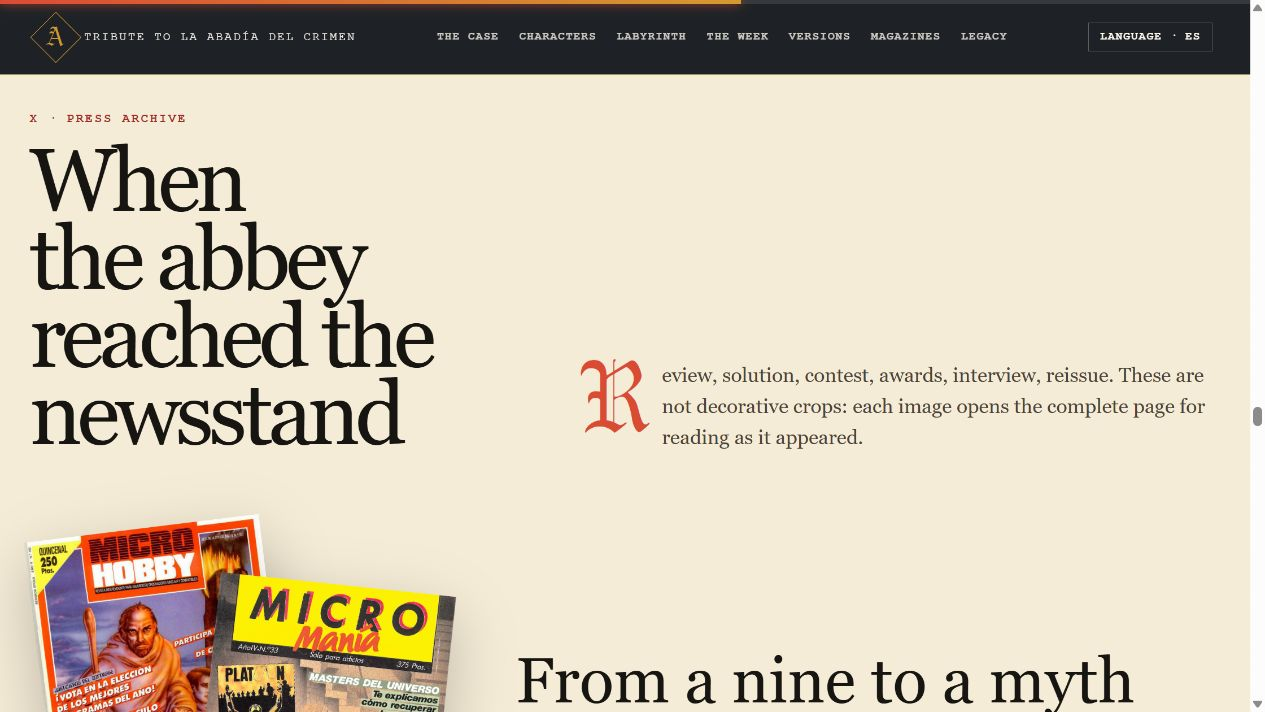
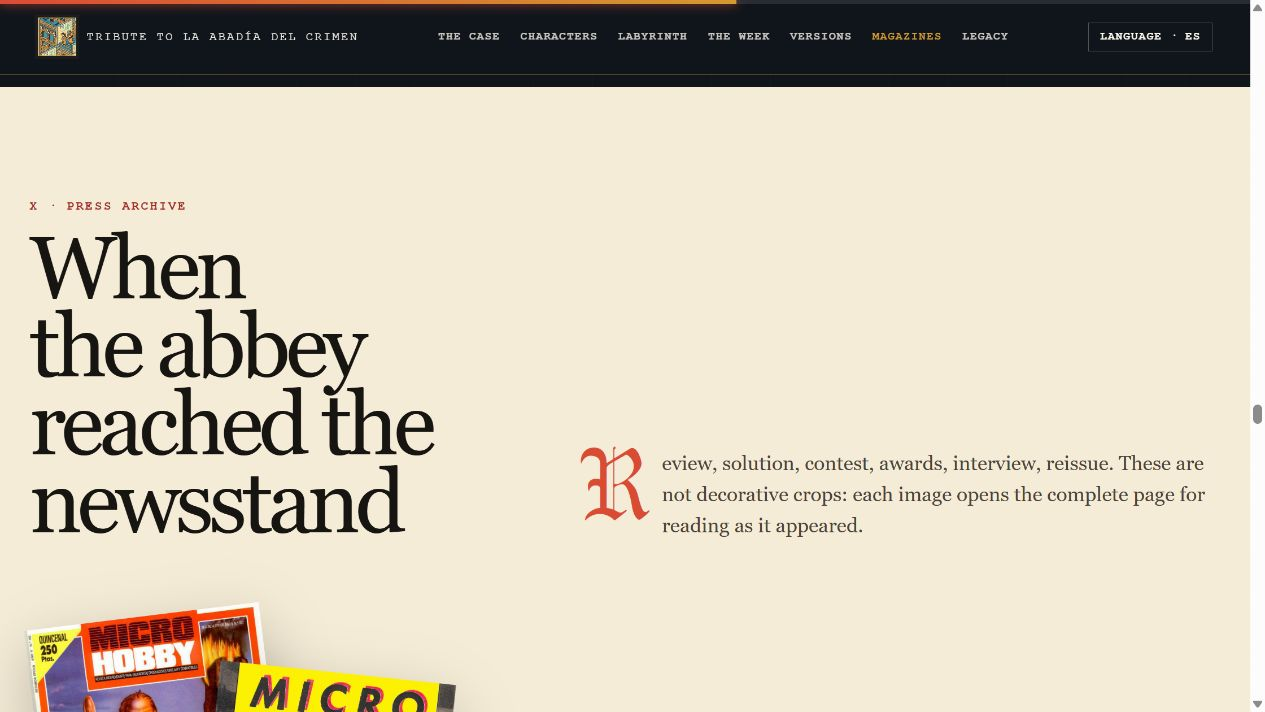
Finalize version 1 presentation and credits

diff --git a/en/index.html b/en/index.html
@@ -5,7 +5,7 @@
   <meta name="viewport" content="width=device-width, initial-scale=1">
   <meta name="description" content="An interactive visual archive of La Abadía del Crimen: history, characters, the complete week, maps, ports, magazines, adverts, sound and legacy.">
   <title>Tribute to La Abadía del Crimen</title>
-  <link rel="stylesheet" href="../styles.css?v=20260830-board45">
+  <link rel="stylesheet" href="../styles.css?v=20260830-board46">
 </head>
 <body>
   <a class="skip-link" href="#content">Skip to the story</a>
@@ -30,7 +30,7 @@
 
   <header class="hero" id="start" style="--hero-image:url('assets/game/loading-color.webp')">
     <div class="hero-inner">
-      <p class="eyebrow">Interactive tribute · 1987—∞</p>
+      <p class="eyebrow">Interactive tribute</p>
       <h1>The Abbey <em>of Crime</em></h1>
       <p class="hero-deck">Seven days. Eight suspects. A library that must not exist. We enter Paco Menéndez and Juan Delcán’s classic as one enters the abbey itself: following the bells, disobeying the Abbot, and peering behind every wall.</p>
       <ul class="hero-meta">
@@ -166,7 +166,7 @@
         <figure class="map-document map-document--spread"><div class="magazine-map-spread"><button type="button" data-lightbox="../assets/magazines/mm33-guide-2.webp" data-alt="First page of the map published in Micromanía 33" data-caption="Micromanía issue 33: first half of the illustrated La Abadía del Crimen map."><img src="../assets/magazines/mm33-guide-2.webp" alt="First page of the Micromanía 33 map" loading="lazy"></button><button type="button" data-lightbox="../assets/magazines/mm33-guide-3.webp" data-alt="Second page of the map published in Micromanía 33" data-caption="Micromanía issue 33: second half of the illustrated La Abadía del Crimen map."><img src="../assets/magazines/mm33-guide-3.webp" alt="Second page of the Micromanía 33 map" loading="lazy"></button></div><figcaption><strong>Micromanía cartography</strong><span>The complete two-page spread, published two pages after the guide begins.</span></figcaption></figure>
       </div>
       <div class="stitched-atlas reveal">
-        <div class="stitched-heading"><span class="source-tag">Screen cartography</span><h3>The abbey, stitched room by room</h3><p>These stitched images belong to <cite>La Abadía del Crimen: guide to completing the adventure</cite>, a nine-page illustrated walkthrough. Its montages assemble the real CPC screens; numbering identifies each room and turns isometric perspective into a walkable plan for finishing the game.</p></div>
+        <div class="stitched-heading"><span class="source-tag">Screen cartography</span><h3>The abbey, stitched room by room</h3><p>These stitched images form part of <cite>La Abadía del Crimen: guide to completing the adventure</cite>, the nine-page illustrated walkthrough shared by <a href="https://x.com/EnriqueBCN/status/1550762568150618113">@EnriqueBCN on X</a>. Its montages assemble the real CPC screens; numbering identifies each room and turns isometric perspective into a walkable plan for finishing the game.</p></div>
         <div class="stitched-grid">
           <figure><button type="button" data-lightbox="../assets/guide/guide-p02.jpg" data-alt="Main floor reconstructed from 61 game screens" data-caption="Guide to completing the adventure: main floor formed from 61 CPC screens, with entrances, cells, and passages marked."><img src="../assets/guide/guide-p02.jpg" alt="Main-floor map stitched from CPC screens" loading="lazy"></button><figcaption><strong>The complete main floor</strong><span>Sixty-one rooms, from the entrance to William and Adso's cell.</span></figcaption></figure>
           <figure><button type="button" data-lightbox="../assets/guide/guide-p06.jpg" data-alt="Scriptorium reconstructed from game screens" data-caption="Guide to completing the adventure: the sixteen screens of the scriptorium, including the library entrances."><img src="../assets/guide/guide-p06.jpg" alt="Scriptorium map stitched from CPC screens" loading="lazy"></button><figcaption><strong>The scriptorium</strong><span>Desks, stairs, and forbidden entrances assembled in one image.</span></figcaption></figure>
@@ -322,16 +322,16 @@
     <section class="chapter dark" id="sources">
       <div class="chapter-header reveal"><div><span class="chapter-number">XV · Credits and sources</span><h2>Where every clue came from</h2></div><p class="chapter-intro">This tribute distinguishes contemporary documents, technical reconstruction, testimony, and retrospective writing. Interpretations are ours; visual materials retain their provenance.</p></div>
       <div class="sources-grid reveal">
-        <section class="source-group"><h3>Preserved magazines and guides</h3><ul><li>MicroHobby 162, 175, 188, and 215.</li><li>Micromanía first series 31 and 33; second series 3.</li><li>Input MSX / Input Micros 29 and Amstrad Sinclair Ocio 4.</li><li>Selected pages from Retro Gamer España 41 and Retro Gamer UK 28, 48, 73, and 131.</li><li><a href="../assets/guide/guide-p01.jpg" data-lightbox="../assets/guide/guide-p01.jpg" data-lightbox-pages="../assets/guide/guide-p01.jpg|../assets/guide/guide-p02.jpg|../assets/guide/guide-p03.jpg|../assets/guide/guide-p04.jpg|../assets/guide/guide-p05.jpg|../assets/guide/guide-p06.jpg|../assets/guide/guide-p07.jpg|../assets/guide/guide-p08.jpg|../assets/guide/guide-p09.jpg" data-alt="Illustrated guide to completing La Abadía del Crimen" data-caption="La Abadía del Crimen: guide to completing the adventure, preserved as nine illustrated pages."><cite>La Abadía del Crimen: guide to completing the adventure</cite></a>, all nine illustrated pages.</li></ul></section>
+        <section class="source-group"><h3>Preserved magazines and guides</h3><ul><li>MicroHobby 162, 175, 188, and 215.</li><li>Micromanía first series 31 and 33; second series 3.</li><li>Input MSX / Input Micros 29 and Amstrad Sinclair Ocio 4.</li><li>Selected pages from Retro Gamer España 41 and Retro Gamer UK 28, 48, 73, and 131.</li><li><a href="https://x.com/EnriqueBCN/status/1550762568150618113"><cite>La Abadía del Crimen: guide to completing the adventure</cite>, shared by @EnriqueBCN on X</a>. <a href="../assets/guide/guide-p01.jpg" data-lightbox="../assets/guide/guide-p01.jpg" data-lightbox-pages="../assets/guide/guide-p01.jpg|../assets/guide/guide-p02.jpg|../assets/guide/guide-p03.jpg|../assets/guide/guide-p04.jpg|../assets/guide/guide-p05.jpg|../assets/guide/guide-p06.jpg|../assets/guide/guide-p07.jpg|../assets/guide/guide-p08.jpg|../assets/guide/guide-p09.jpg" data-alt="Illustrated guide to completing La Abadía del Crimen" data-caption="La Abadía del Crimen: guide to completing the adventure, shared by @EnriqueBCN and preserved as nine illustrated pages.">View all nine preserved pages.</a></li></ul></section>
         <section class="source-group"><h3>Project archaeology</h3><ul><li>Local DOS disk images and executables.</li><li>Disassembly, loading, object, sound, and digital-sample notes.</li><li>VIGASOCO and Abbey: documented equivalent implementations after reverse engineering.</li><li>Source for dialogue, characters, clock, objects, camera, and scoring.</li></ul></section>
         <section class="source-group"><h3>Online archives</h3><ul><li><a href="https://computeremuzone.com/ficha/166/la-abadia-del-crimen">Computer Emuzone</a>: profile, captures, maps, adverts, credits, development, and its CPC, Spectrum, MSX, and PC DOS multiplatform archive.</li><li><strong>System records:</strong> <a href="https://www.cpc-power.com/index.php?page=detail&amp;num=222">CPC-Power</a>, <a href="https://worldofspectrum.org/archive/software/games/la-abadia-del-crimen-opera-soft-sa">World of Spectrum</a>, <a href="https://www.msxgamesworld.com/software.php?id=146">MSX Games World</a>, and <a href="https://www.mobygames.com/game/14113/la-abadia-del-crimen/">MobyGames</a>.</li><li><a href="https://pixelmaniacos.com/la-abadia-del-crimen-el-misterio-de-los-frailes/">Pixelmaniacos</a>: PC capture of mass in the church.</li><li><a href="https://retroinvaders.com/index.php/es/493/bocetos-de-desarrollo-de-la-abadia-del-crimen">Development sketches</a>: Juan Delcán’s squared-paper designs.</li><li><a href="https://github.com/ibaca/la-abadia-del-crimen">Reconstructed source</a>: equivalent implementation reverse-engineered from the CPC original.</li><li><a href="https://www.elmundodelspectrum.com/la-abadia-del-crimen-1987-opera-soft/">El Mundo del Spectrum</a>: history and Spectrum version.</li><li><a href="https://www.elmundodelspectrum.com/el-contrato-de-la-abadia-del-crimen/">Rights-assignment contract</a>: historical document.</li><li><a href="https://computeremuzone.com/entrevista/11/juan-delcan-grafista-del-que-puede-considerarse-como-el-mejor-juego-espanol-para-8-bits-de-la-historia-una-entrevista-de-zemman-y-mandrake-el-mago">Juan Delcán interview</a>.</li><li><strong>Access and rights:</strong> Computer Emuzone states that the classic-game authors it has been able to contact authorized availability of their games. This tribute hosts no copies; use your own copy or a distribution expressly authorized by its provider.</li></ul></section>
         <section class="source-group"><h3>Legacy</h3><ul><li><a href="https://computeremuzone.com/ficha/106/la-abadia-del-crimen-remake">Antonio Giner’s VGA remake</a>, preserved record and downloads.</li><li><a href="https://store.steampowered.com/app/474030/The_Abbey_of_Crime_Extensum/">Extensum on Steam</a> and official images.</li><li><a href="https://www.devuego.es/codice/flibro/obsequium-un-relato-cultural-tecnologico-y-emocional-de-la-abadia-del-crimen"><cite>Obsequium</cite></a> bibliographical record.</li><li><a href="https://www.market.correos.es/product/sello-la-abadia-del-crimen">Official Correos stamp</a>.</li><li><a href="https://www.henneomagazines.com/products/5413">Retro Gamer España 40</a> and <a href="https://www.henneomagazines.com/products/5430">Retro Gamer España 41</a>.</li><li>Academic study of its many versions.</li></ul></section>
       </div>
-      <p class="source-note reveal">Visual credits: pages and cartography from the magazines and guides preserved in the Revistas folder; screens, general map, and advertising collected by Computer Emuzone and reused with link and attribution under its content policy; PC church capture from Pixelmaniacos; commemorative miniature sheet from the official Correos listing; Extensum captures from its official Steam page. The loading screen and sounds come from preservation files and ports in this project; portraits and objects were extracted without redrawing from <code>GraficosVGA</code> in the local VIGASOCO reconstruction. The chapter initials and the emblem's A use GregorianFLF, the typeface supplied with this project; the clock labels use the game's 8-bit dialogue typeface. The work, characters, graphics, and marks belong to their respective owners. Non-commercial site for documentation and tribute.</p>
+      <p class="source-note reveal">Visual credits: pages and cartography from the magazines and guides preserved in the Revistas folder; screens, general map, and advertising collected by Computer Emuzone and reused with link and attribution under its content policy; PC church capture from Pixelmaniacos; commemorative miniature sheet from the official Correos listing; Extensum captures from its official Steam page. The loading screen and sounds come from preservation files and ports in this project; portraits and objects were extracted without redrawing from <code>GraficosVGA</code> in the local VIGASOCO reconstruction. The chapter initials use GregorianFLF, the typeface supplied with this project; the clock labels use the game's 8-bit dialogue typeface. The work, characters, graphics, and marks belong to their respective owners. Non-commercial site for documentation and tribute.</p>
     </section>
   </main>
 
-  <footer class="site-footer"><div><strong>Finis?</strong><p>The investigation ends; the abbey does not. Return at another hour, open another magazine, or listen to the bells again.</p><p><a href="#start">Back to the beginning</a> · <a href="../es/index.html" lang="es">Edición española</a></p><p class="project-credit">Andrés del Campo Novales <span>with GPT 5.6 Sol</span></p></div><div class="seal" aria-hidden="true">A</div></footer>
+  <footer class="site-footer"><div><strong>Finis?</strong><p>The investigation ends; the abbey does not. Return at another hour, open another magazine, or listen to the bells again.</p><p><a href="#start">Back to the beginning</a> · <a href="../es/index.html" lang="es">Edición española</a></p><p class="project-credit">Andrés del Campo Novales <span>with GPT 5.6 Sol</span></p></div><div class="footer-labyrinth" aria-hidden="true"><img src="../assets/maps/library-labyrinth-plan.png" alt=""></div></footer>
 
   <div class="lightbox" role="dialog" aria-modal="true" aria-hidden="true" aria-label="Archive viewer"><button class="lightbox-close" type="button">Close ×</button><img src="" alt=""><div class="lightbox-navigation" aria-label="Article pages" hidden><button class="lightbox-previous" type="button" aria-label="Previous page">← Previous</button><span class="lightbox-page-count" aria-live="polite"></span><button class="lightbox-next" type="button" aria-label="Next page">Next →</button></div><p class="lightbox-caption"></p></div>
   <script src="../app.js?v=20260830-board32"></script>

diff --git a/es/index.html b/es/index.html
@@ -5,7 +5,7 @@
   <meta name="viewport" content="width=device-width, initial-scale=1">
   <meta name="description" content="Homenaje interactivo y archivo visual de La Abadía del Crimen: historia, personajes, semana completa, mapas, versiones, revistas, anuncios, sonido y legado.">
   <title>Homenaje a La Abadía del Crimen</title>
-  <link rel="stylesheet" href="../styles.css?v=20260830-board45">
+  <link rel="stylesheet" href="../styles.css?v=20260830-board46">
 </head>
 <body>
   <a class="skip-link" href="#contenido">Saltar al contenido</a>
@@ -30,7 +30,7 @@
 
   <header class="hero" id="inicio" style="--hero-image:url('assets/game/loading-color.webp')">
     <div class="hero-inner">
-      <p class="eyebrow">Homenaje interactivo · 1987—∞</p>
+      <p class="eyebrow">Homenaje interactivo</p>
       <h1>La Abadía <em>del Crimen</em></h1>
       <p class="hero-deck">Siete días. Ocho sospechosos. Una biblioteca que no debería existir. Entramos en el clásico de Paco Menéndez y Juan Delcán como se entra en la propia abadía: siguiendo las campanas, desobedeciendo al Abad y mirando detrás de cada muro.</p>
       <ul class="hero-meta">
@@ -336,7 +336,7 @@
         <div class="stitched-heading">
           <span class="source-tag">Cartografía de pantallas</span>
           <h3>La abadía, cosida habitación por habitación</h3>
-          <p>Estas imágenes cosidas pertenecen a <cite>La Abadía del Crimen: guía para completar la aventura</cite>, una guía ilustrada de nueve páginas. Sus montajes reúnen las pantallas reales de la versión CPC; la numeración identifica cada estancia y convierte la perspectiva isométrica en un plano transitable para terminar el juego.</p>
+          <p>Estas imágenes cosidas forman parte de <cite>La Abadía del Crimen: guía para completar la aventura</cite>, la guía ilustrada de nueve páginas compartida por <a href="https://x.com/EnriqueBCN/status/1550762568150618113">@EnriqueBCN en X</a>. Sus montajes reúnen las pantallas reales de la versión CPC; la numeración identifica cada estancia y convierte la perspectiva isométrica en un plano transitable para terminar el juego.</p>
         </div>
         <div class="stitched-grid">
           <figure><button type="button" data-lightbox="../assets/guide/guide-p02.jpg" data-alt="Planta principal recompuesta con 61 pantallas del juego" data-caption="Guía para completar la aventura: planta principal formada con las 61 pantallas CPC, con accesos, celdas y pasadizos señalados."><img src="../assets/guide/guide-p02.jpg" alt="Mapa de la planta principal cosido con pantallas CPC" loading="lazy"></button><figcaption><strong>La planta principal completa</strong><span>61 habitaciones, desde la entrada hasta la celda de Guillermo y Adso.</span></figcaption></figure>
@@ -610,18 +610,18 @@
         <p class="chapter-intro">El homenaje distingue entre archivos contemporáneos, reconstrucción técnica, testimonios y retrospectivas. Las afirmaciones interpretativas son nuestras; los materiales visuales conservan su procedencia.</p>
       </div>
       <div class="sources-grid reveal">
-        <section class="source-group"><h3>Revistas y guías preservadas</h3><ul><li>MicroHobby 162, 175, 188 y 215.</li><li>Micromanía primera época 31 y 33; segunda época 3.</li><li>Input MSX / Input Micros 29 y Amstrad Sinclair Ocio 4.</li><li>Páginas seleccionadas de Retro Gamer España 41 y Retro Gamer UK 28, 48, 73 y 131.</li><li><a href="../assets/guide/guide-p01.jpg" data-lightbox="../assets/guide/guide-p01.jpg" data-lightbox-pages="../assets/guide/guide-p01.jpg|../assets/guide/guide-p02.jpg|../assets/guide/guide-p03.jpg|../assets/guide/guide-p04.jpg|../assets/guide/guide-p05.jpg|../assets/guide/guide-p06.jpg|../assets/guide/guide-p07.jpg|../assets/guide/guide-p08.jpg|../assets/guide/guide-p09.jpg" data-alt="Guía ilustrada para completar La Abadía del Crimen" data-caption="La Abadía del Crimen: guía para completar la aventura, conservada en nueve páginas ilustradas."><cite>La Abadía del Crimen: guía para completar la aventura</cite></a>, nueve páginas ilustradas completas.</li></ul></section>
+        <section class="source-group"><h3>Revistas y guías preservadas</h3><ul><li>MicroHobby 162, 175, 188 y 215.</li><li>Micromanía primera época 31 y 33; segunda época 3.</li><li>Input MSX / Input Micros 29 y Amstrad Sinclair Ocio 4.</li><li>Páginas seleccionadas de Retro Gamer España 41 y Retro Gamer UK 28, 48, 73 y 131.</li><li><a href="https://x.com/EnriqueBCN/status/1550762568150618113"><cite>La Abadía del Crimen: guía para completar la aventura</cite>, compartida por @EnriqueBCN en X</a>. <a href="../assets/guide/guide-p01.jpg" data-lightbox="../assets/guide/guide-p01.jpg" data-lightbox-pages="../assets/guide/guide-p01.jpg|../assets/guide/guide-p02.jpg|../assets/guide/guide-p03.jpg|../assets/guide/guide-p04.jpg|../assets/guide/guide-p05.jpg|../assets/guide/guide-p06.jpg|../assets/guide/guide-p07.jpg|../assets/guide/guide-p08.jpg|../assets/guide/guide-p09.jpg" data-alt="Guía ilustrada para completar La Abadía del Crimen" data-caption="La Abadía del Crimen: guía para completar la aventura, compartida por @EnriqueBCN y conservada en nueve páginas ilustradas.">Ver las nueve páginas preservadas.</a></li></ul></section>
         <section class="source-group"><h3>Proyecto y arqueología</h3><ul><li>Imágenes de disco y ejecutables DOS del archivo local.</li><li>Notas de desensamblado, carga, objetos, sonido y rutinas digitales.</li><li>VIGASOCO y Abbey: implementación equivalente documentada tras ingeniería inversa.</li><li>Fuentes de frases, personajes, reloj, objetos, cámara y puntuación.</li></ul></section>
         <section class="source-group"><h3>Archivos en línea</h3><ul><li><a href="https://computeremuzone.com/ficha/166/la-abadia-del-crimen">Computer Emuzone</a>: ficha, capturas, mapas, anuncios, créditos, desarrollo y archivo multiplataforma de CPC, Spectrum, MSX y PC DOS.</li><li><strong>Fichas por sistema:</strong> <a href="https://www.cpc-power.com/index.php?page=detail&amp;num=222">CPC-Power</a>, <a href="https://worldofspectrum.org/archive/software/games/la-abadia-del-crimen-opera-soft-sa">World of Spectrum</a>, <a href="https://www.msxgamesworld.com/software.php?id=146">MSX Games World</a> y <a href="https://www.mobygames.com/game/14113/la-abadia-del-crimen/">MobyGames</a>.</li><li><a href="https://pixelmaniacos.com/la-abadia-del-crimen-el-misterio-de-los-frailes/">Pixelmaniacos</a>: captura PC de la misa en la iglesia.</li><li><a href="https://retroinvaders.com/index.php/es/493/bocetos-de-desarrollo-de-la-abadia-del-crimen">Bocetos de desarrollo</a>: diseños cuadriculados de Juan Delcán.</li><li><a href="https://github.com/ibaca/la-abadia-del-crimen">Código reconstruido</a>: implementación equivalente tras ingeniería inversa del CPC.</li><li><a href="https://www.elmundodelspectrum.com/la-abadia-del-crimen-1987-opera-soft/">El Mundo del Spectrum</a>: historia y versión Spectrum.</li><li><a href="https://www.elmundodelspectrum.com/el-contrato-de-la-abadia-del-crimen/">Contrato de cesión</a>: documento histórico.</li><li><a href="https://computeremuzone.com/entrevista/11/juan-delcan-grafista-del-que-puede-considerarse-como-el-mejor-juego-espanol-para-8-bits-de-la-historia-una-entrevista-de-zemman-y-mandrake-el-mago">Entrevista con Juan Delcán</a>.</li><li><strong>Acceso y derechos:</strong> Computer Emuzone declara que los autores clásicos con los que ha podido contactar autorizaron la disponibilidad de sus juegos. El homenaje no aloja copias; utiliza una copia propia o una distribución expresamente autorizada.</li></ul></section>
         <section class="source-group"><h3>Legado</h3><ul><li><a href="https://computeremuzone.com/ficha/106/la-abadia-del-crimen-remake">Remake VGA de Antonio Giner</a>, ficha y descargas preservadas.</li><li><a href="https://store.steampowered.com/app/474030/The_Abbey_of_Crime_Extensum/">Extensum en Steam</a> y sus capturas oficiales.</li><li><a href="https://www.devuego.es/codice/flibro/obsequium-un-relato-cultural-tecnologico-y-emocional-de-la-abadia-del-crimen"><cite>Obsequium</cite></a>, ficha bibliográfica.</li><li><a href="https://www.market.correos.es/product/sello-la-abadia-del-crimen">Sello oficial de Correos</a>.</li><li><a href="https://www.henneomagazines.com/products/5413">Retro Gamer España 40</a> y <a href="https://www.henneomagazines.com/products/5430">Retro Gamer España 41</a>.</li><li>Estudio académico sobre sus versiones.</li></ul></section>
       </div>
-      <p class="source-note reveal">Créditos visuales: páginas y cartografía de las revistas y guías preservadas en la carpeta Revistas; pantallas, mapa general y publicidad recopilados por Computer Emuzone y reutilizados con enlace y atribución conforme a su política; captura PC de la iglesia procedente de Pixelmaniacos; mini pliego conmemorativo procedente de la ficha oficial de Correos; capturas de Extensum procedentes de su página oficial de Steam. Pantalla de carga y sonidos proceden de los archivos y puertos preservados en este proyecto; retratos y objetos fueron extraídos sin redibujado de <code>GraficosVGA</code> en la reconstrucción local VIGASOCO. Las iniciales de capítulo y la A del emblema emplean GregorianFLF, la tipografía proporcionada en este proyecto; las etiquetas del reloj emplean la tipografía de diálogo de 8 bits del juego. La obra, personajes, gráficos y marcas pertenecen a sus respectivos titulares. Sitio no comercial creado con fines de documentación y homenaje.</p>
+      <p class="source-note reveal">Créditos visuales: páginas y cartografía de las revistas y guías preservadas en la carpeta Revistas; pantallas, mapa general y publicidad recopilados por Computer Emuzone y reutilizados con enlace y atribución conforme a su política; captura PC de la iglesia procedente de Pixelmaniacos; mini pliego conmemorativo procedente de la ficha oficial de Correos; capturas de Extensum procedentes de su página oficial de Steam. Pantalla de carga y sonidos proceden de los archivos y puertos preservados en este proyecto; retratos y objetos fueron extraídos sin redibujado de <code>GraficosVGA</code> en la reconstrucción local VIGASOCO. Las iniciales de capítulo emplean GregorianFLF, la tipografía proporcionada en este proyecto; las etiquetas del reloj emplean la tipografía de diálogo de 8 bits del juego. La obra, personajes, gráficos y marcas pertenecen a sus respectivos titulares. Sitio no comercial creado con fines de documentación y homenaje.</p>
     </section>
   </main>
 
   <footer class="site-footer">
     <div><strong>Finis?</strong><p>La investigación termina; la abadía no. Vuelve a una hora distinta, abre otra revista o escucha de nuevo las campanas.</p><p><a href="#inicio">Volver al principio</a> · <a href="../en/index.html" lang="en">English edition</a></p><p class="project-credit">Andrés del Campo Novales <span>with GPT 5.6 Sol</span></p></div>
-    <div class="seal" aria-hidden="true">A</div>
+    <div class="footer-labyrinth" aria-hidden="true"><img src="../assets/maps/library-labyrinth-plan.png" alt=""></div>
   </footer>
 
   <div class="lightbox" role="dialog" aria-modal="true" aria-hidden="true" aria-label="Visor de archivo">

diff --git a/styles.css b/styles.css
@@ -121,21 +121,14 @@ a:hover { color: var(--blue); }
   content: "";
   display: block;
   flex: 0 0 auto;
-  width: 2.2rem;
+  width: 2.35rem;
   aspect-ratio: 1;
-  border: 1px solid var(--gold);
-  transform: rotate(45deg);
+  border: 1px solid rgba(212,154,46,.85);
+  background: #0b1013 url("assets/legacy/correos-stamp-sheet.webp") 22% 27% / 470% auto no-repeat;
+  box-shadow: 0 0 0 3px rgba(212,154,46,.06);
 }
 .nav-mark::after {
-  content: "A";
-  position: absolute;
-  left: .48rem;
-  top: 50%;
-  width: 1.25rem;
-  translate: 0 -50%;
-  color: var(--gold);
-  font: 400 1.55rem/1 "Gregorian FLF", Georgia, serif;
-  text-align: center;
+  content: none;
 }
 .nav-mark span { display: inline-block; }
 .nav-links {
@@ -1230,7 +1223,26 @@ html[lang="en"] .character-panel[data-character="bernard"]::before { background-
 .site-footer a { color: var(--gold); }
 .project-credit { color: var(--white) !important; font: 700 .64rem/1.35 var(--mono) !important; letter-spacing: .08em; text-transform: uppercase; }
 .project-credit span { color: var(--gold); }
-.seal { width: 7rem; aspect-ratio: 1; display: grid; place-items: center; border: 1px solid var(--gold); border-radius: 50%; color: var(--gold); font: 400 3rem/1 var(--display); transform: rotate(-8deg); }
+.footer-labyrinth {
+  width: 7.5rem;
+  aspect-ratio: 1;
+  display: grid;
+  place-items: center;
+  overflow: hidden;
+  border: 1px solid rgba(212,154,46,.82);
+  border-radius: 50%;
+  background: #070a0c;
+  box-shadow: inset 0 0 2rem rgba(212,154,46,.08), 0 0 0 5px rgba(212,154,46,.025);
+  transform: rotate(-4deg);
+}
+.footer-labyrinth img {
+  width: 84%;
+  height: 84%;
+  object-fit: contain;
+  opacity: .78;
+  filter: invert(1) sepia(1) saturate(4.2) hue-rotate(350deg) brightness(.88) contrast(1.12);
+  transform: rotate(4deg);
+}
 
 .lightbox {
   position: fixed;
@@ -1314,8 +1326,13 @@ html[lang="en"] .character-panel[data-character="bernard"]::before { background-
 .gate-art .gate-stamp { position: absolute; z-index: 1; left: 2rem; bottom: 2rem; padding: .6rem .8rem; border: 1px solid var(--gold); color: var(--gold); font: 700 .7rem/1 var(--mono); letter-spacing: .12em; text-transform: uppercase; }
 .gate-copy { display: flex; flex-direction: column; justify-content: center; padding: clamp(2rem, 5vw, 5.5rem); }
 .gate-kicker { color: var(--gold); font: 700 .72rem/1 var(--mono); text-transform: uppercase; letter-spacing: .15em; }
-.gate-copy h1 { margin: .8rem 0 1.25rem; max-width: 900px; font: 400 clamp(3.9rem, 7vw, 7.5rem)/.78 var(--display); letter-spacing: -.065em; }
-.gate-copy h1 em { display: block; color: var(--gold); font-style: normal; }
+.gate-title-art {
+  width: min(100%, 42rem);
+  aspect-ratio: 917 / 355;
+  margin: .8rem 0 1.25rem;
+  background: url("assets/game/title-logo.png") center / contain no-repeat;
+  image-rendering: pixelated;
+}
 .gate-copy p { max-width: 560px; color: rgba(255,255,255,.7); }
 .gate-intro { display: grid; grid-template-columns: repeat(2, minmax(0, 1fr)); gap: 1rem; max-width: 760px; }
 .gate-intro p { margin: 0; font-size: .98rem; }
@@ -1436,7 +1453,7 @@ html[lang="en"] .character-panel[data-character="bernard"]::before { background-
   .legacy-timeline { grid-template-columns: 1fr 1fr; }
   .sources-grid { grid-template-columns: 1fr; }
   .site-footer { grid-template-columns: 1fr; }
-  .seal { display: none; }
+  .footer-labyrinth { display: none; }
   .language-gate { grid-template-columns: 1fr; }
   .gate-art { min-height: 45vh; }
   .gate-art::after { background: linear-gradient(0deg, var(--night), transparent 55%); }
@@ -1444,7 +1461,7 @@ html[lang="en"] .character-panel[data-character="bernard"]::before { background-
 }
 
 @media (max-width: 480px) {
-  .gate-copy h1 { font-size: clamp(3.25rem, 17vw, 4.5rem); }
+  .gate-title-art { width: 100%; }
   .gate-intro, .gate-options { grid-template-columns: 1fr; }
   .gate-intro p + p { padding: .75rem 0 0; border-left: 0; border-top: 1px solid rgba(212,154,46,.45); }
   .gate-heading { flex-wrap: wrap; }

diff --git a/index.html b/index.html
@@ -5,16 +5,16 @@
   <meta name="viewport" content="width=device-width, initial-scale=1">
   <meta name="description" content="Elige la edición española o inglesa del homenaje interactivo a La Abadía del Crimen: historia, personajes, laberinto, siete días, versiones, sonido, revistas y legado.">
   <title>La Abadía del Crimen — Elige tu edición · Choose your edition</title>
-  <link rel="stylesheet" href="styles.css?v=20260830-gate2">
+  <link rel="stylesheet" href="styles.css?v=20260830-gate4">
 </head>
 <body>
   <main class="language-gate">
     <section class="gate-art" aria-label="Pantalla original de carga de La Abadía del Crimen">
-      <span class="gate-stamp">Archivo visual · Visual archive · 1987—∞</span>
+      <span class="gate-stamp">Archivo visual · Visual archive</span>
     </section>
     <section class="gate-copy">
       <p class="gate-kicker"><span lang="es">Homenaje interactivo</span> · <span lang="en">Interactive tribute</span></p>
-      <h1>La Abadía <em>del Crimen</em></h1>
+      <h1 class="gate-title-art" aria-label="La Abadía del Crimen"></h1>
       <div class="gate-intro">
         <p lang="es">Siete días. Ocho sospechosos. Una biblioteca que no debería existir.</p>
         <p lang="en">Seven days. Eight suspects. A library that must not exist.</p>
